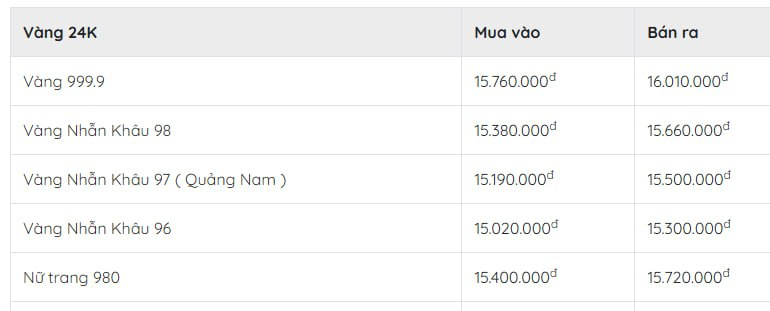
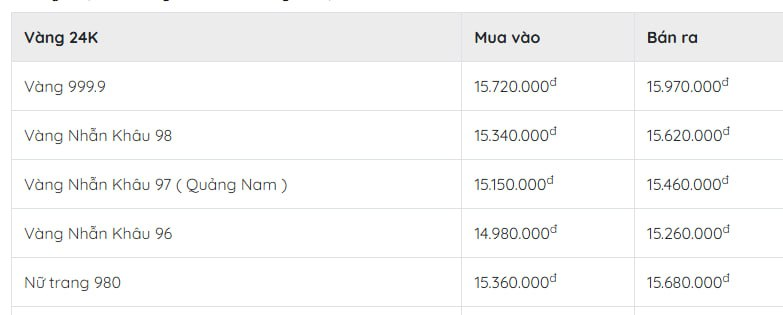
Update kim-khanh-viet-hung price image (11:36)

diff --git a/app/data/goldShops.ts b/app/data/goldShops.ts
@@ -26,7 +26,7 @@ export const GOLD_SHOPS: GoldShop[] = [
     name: "Kim Khánh Việt Hùng",
     location: "Đà Nẵng",
     image: "images/kim-khanh-viet-hung.jpg",
-    updatedAt: "08:01",
+    updatedAt: "11:36",
   },
   {
     id: "tru-cam-le",
